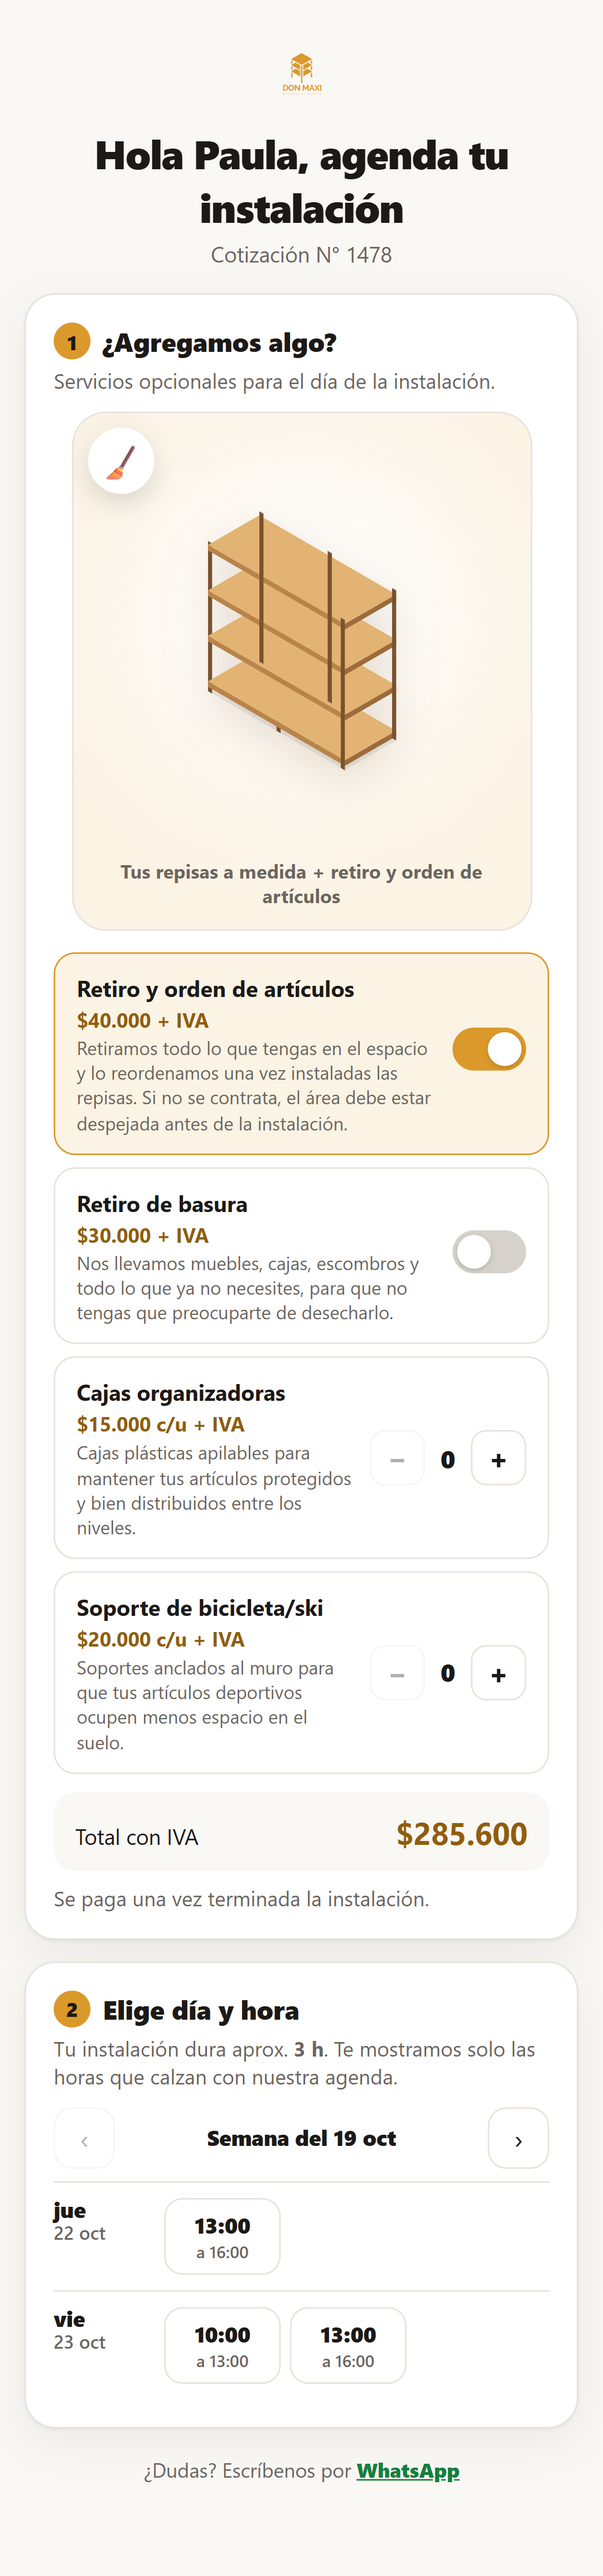
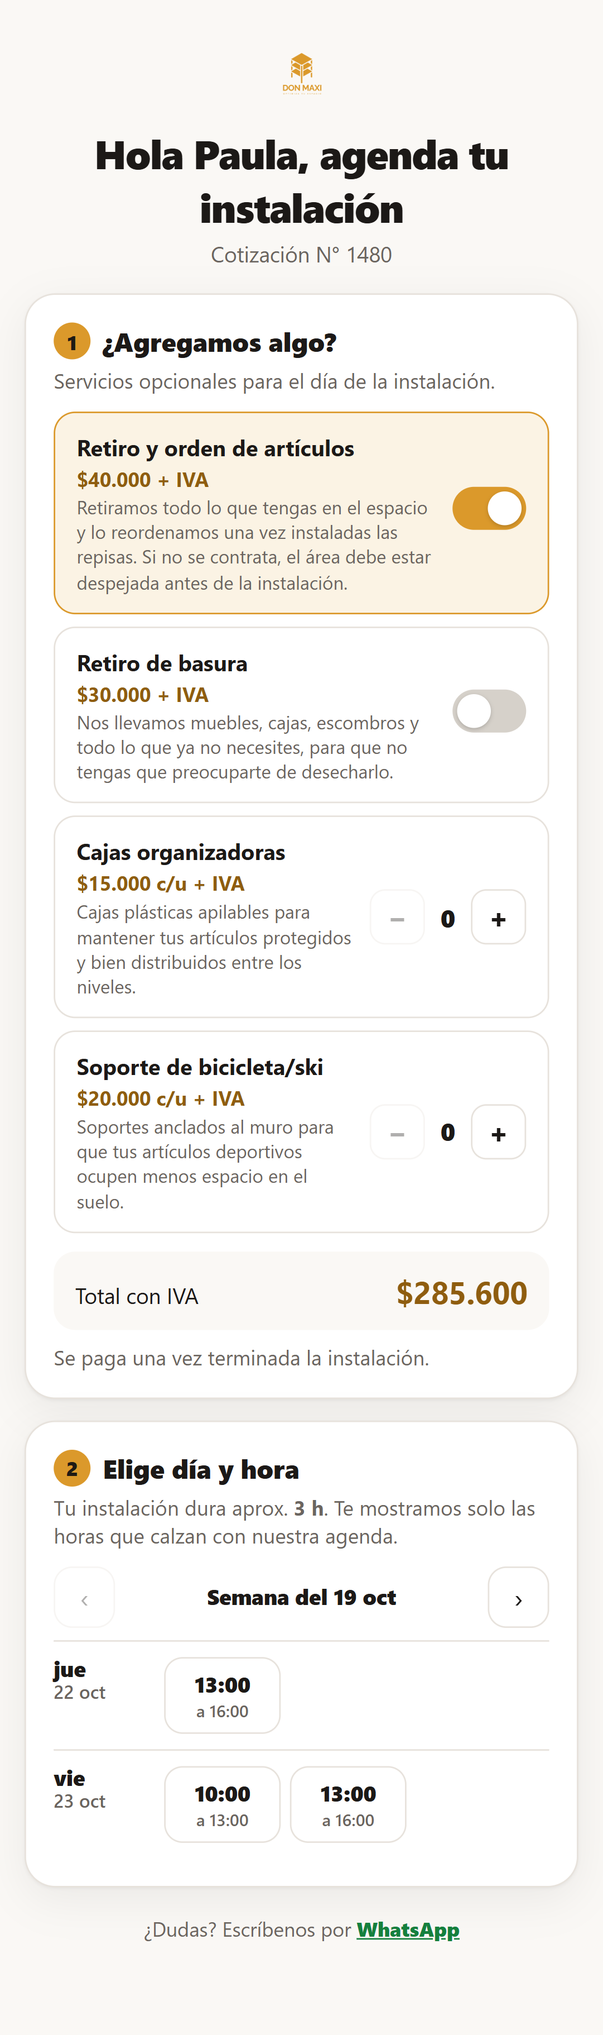
Agendar: "Cargando" mientras se dibuja la bodega en 3D, sin repisa de respaldo

diff --git a/src/AgendarApp.jsx b/src/AgendarApp.jsx
@@ -85,41 +85,19 @@ function useIsometrica(proyecto) {
 const EMOJIS = { retiro_orden: '🧹', retiro_basura: '🗑', cajas: '📦', bici: '🚲' }
 const LUGARES = ['arriba-izq', 'arriba-der', 'abajo-izq', 'abajo-der']
 
-// Respaldo sin modelo 3D: una repisa de 4 niveles en isometrica (x a lo largo, y al fondo, z hacia arriba).
-const iso = (x, y, z) => `${(92 + (x - y) * 0.866 * 26).toFixed(1)},${(128 + (x + y) * 0.5 * 26 - z * 26).toFixed(1)}`
-const cara = (...p) => p.map(q => iso(...q)).join(' ')
-function RepisaIso() {
-  const L = 4, F = 1.5, niveles = [0.25, 1.4, 2.55, 3.7]
-  const pata = (x, y) => <polygon key={`p${x}${y}`} points={cara([x, y, 0], [x + .12, y, 0], [x + .12, y, 3.8], [x, y, 3.8])} fill="#7A5230" />
-  return (
-    <svg viewBox="0 0 240 230" role="img" aria-label="Repisa de madera a medida" className="agd-repisa-iso">
-      <polygon points={cara([0, 0, 0], [L, 0, 0], [L, F, 0], [0, F, 0])} fill="rgba(0,0,0,.07)" />
-      {pata(0, F)}{pata(L / 2, F)}
-      {niveles.map(z => (
-        <g key={z}>
-          <polygon points={cara([0, 0, z], [L, 0, z], [L, F, z], [0, F, z])} fill="#E2B373" />
-          <polygon points={cara([0, F, z], [L, F, z], [L, F, z - .14], [0, F, z - .14])} fill="#B9844A" />
-          <polygon points={cara([L, 0, z], [L, F, z], [L, F, z - .14], [L, 0, z - .14])} fill="#9C6B3A" />
-        </g>
-      ))}
-      {pata(0, 0)}{pata(L / 2, 0)}{pata(L - .12, F)}{pata(L - .12, 0)}
-    </svg>
-  )
-}
-
 function Dibujo({ imagen, servicios, elegidos }) {
   const activos = servicios.map(s => ({ ...s, n: elegidos[s.clave] ?? s.cantidad })).filter(s => s.n > 0 && EMOJIS[s.clave])
   return (
     <figure className="agd-dibujo" data-testid="agenda-dibujo">
       {imagen
         ? <img src={imagen} alt="Tu bodega con las repisas, en vista isométrica" />
-        : <div className="agd-dibujo-respaldo"><RepisaIso /></div>}
+        : <div className="agd-dibujo-cargando" role="status"><span aria-hidden="true" />Cargando tu bodega en 3D…</div>}
       {activos.map((s, i) => (
         <span key={s.clave} className={`agd-emoji ${LUGARES[i % LUGARES.length]}`} title={s.nombre} aria-label={s.nombre} role="img">
           {EMOJIS[s.clave]}{s.porCantidad && s.n > 1 && <small>×{s.n}</small>}
         </span>
       ))}
-      <figcaption>{imagen ? 'Así quedará tu bodega' : 'Tus repisas a medida'}{activos.length ? ' + ' + activos.map(s => s.nombre.toLowerCase()).join(', ') : ''}</figcaption>
+      <figcaption>{'Así quedará tu bodega'}{activos.length ? ' + ' + activos.map(s => s.nombre.toLowerCase()).join(', ') : ''}</figcaption>
     </figure>
   )
 }
@@ -313,7 +291,7 @@ export default function AgendarApp() {
       <section className="rsv-tarjeta">
         <h2><span className="rsv-paso">1</span> ¿Agregamos algo?</h2>
         <p className="rsv-sub">Servicios opcionales para el día de la instalación.</p>
-        <Dibujo imagen={isometrica} servicios={cot.servicios} elegidos={elegidos} />
+        {cot.proyecto3d && <Dibujo imagen={isometrica} servicios={cot.servicios} elegidos={elegidos} />}
         <Servicios servicios={cot.servicios} elegidos={elegidos} onCambio={(clave, n) => setElegidos(e => ({ ...e, [clave]: n }))} />
         <div className="rsv-resumen" data-testid="agenda-total"><span>Total con IVA</span><strong>{pesos(total)}</strong></div>
         <p className="rsv-sub" style={{ margin: '8px 0 0' }}>Se paga una vez terminada la instalación.</p>

diff --git a/src/reserva.css b/src/reserva.css
@@ -99,8 +99,9 @@ body:has(.rsv){background:var(--fondo, #FAF8F5)}
 /* Dibujo isometrico de la bodega en /agendar, con un emoji por servicio sumado */
 .agd-dibujo{position:relative;margin:4px auto 14px;max-width:300px;padding:14px;border-radius:22px;background:radial-gradient(circle at 50% 40%,#fff 0,var(--acento-suave) 75%);border:1.5px solid var(--borde)}
 .agd-dibujo img{display:block;width:100%;aspect-ratio:1;object-fit:contain;mix-blend-mode:multiply}
-.agd-dibujo-respaldo{display:grid;place-items:center;aspect-ratio:1}
-.agd-repisa-iso{width:88%;height:auto;filter:drop-shadow(0 10px 14px rgba(122,82,48,.18))}
+.agd-dibujo-cargando{display:grid;place-items:center;align-content:center;gap:12px;aspect-ratio:1;font-size:13.5px;font-weight:700;color:var(--suave)}
+.agd-dibujo-cargando span{width:36px;height:36px;border-radius:50%;border:4px solid var(--borde);border-top-color:var(--acento);animation:agd-gira .8s linear infinite}
+@keyframes agd-gira{to{transform:rotate(360deg)}}
 .agd-dibujo figcaption{text-align:center;font-size:12.5px;font-weight:700;color:var(--suave);margin-top:6px}
 .agd-emoji{position:absolute;display:grid;place-items:center;width:42px;height:42px;border-radius:50%;background:#fff;box-shadow:0 6px 16px rgba(0,0,0,.14);font-size:22px;animation:agd-pop .35s cubic-bezier(.3,1.6,.5,1)}
 .agd-emoji small{position:absolute;right:-4px;bottom:-4px;min-width:20px;padding:1px 5px;border-radius:99px;background:var(--acento);color:var(--sobre-acento);font-size:11px;font-weight:800}
